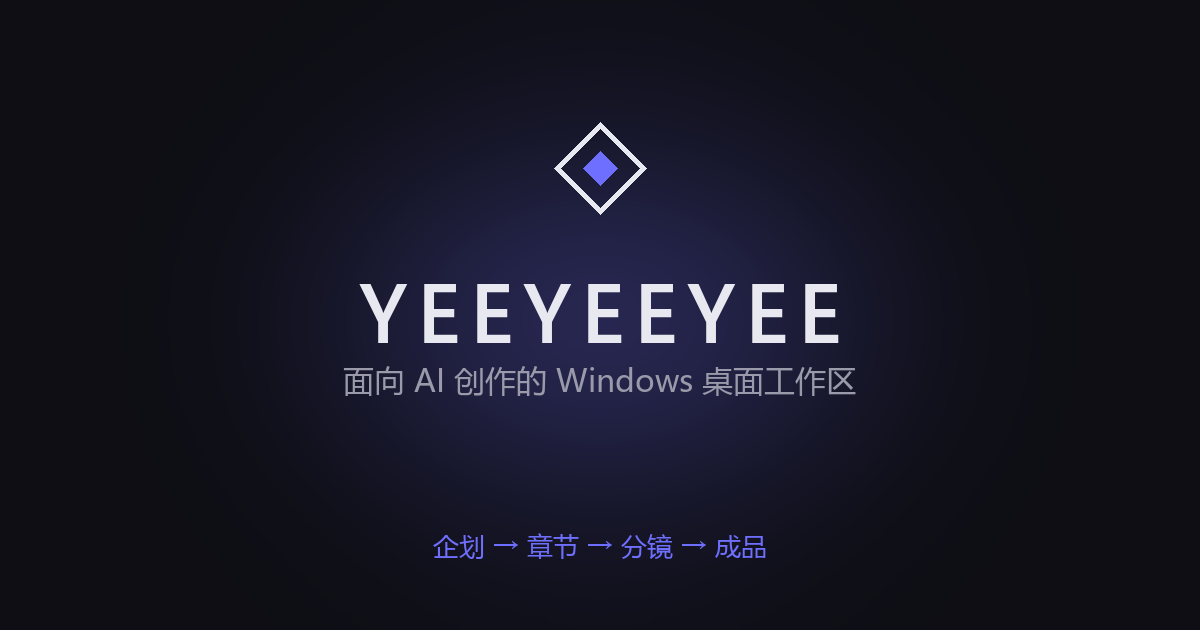
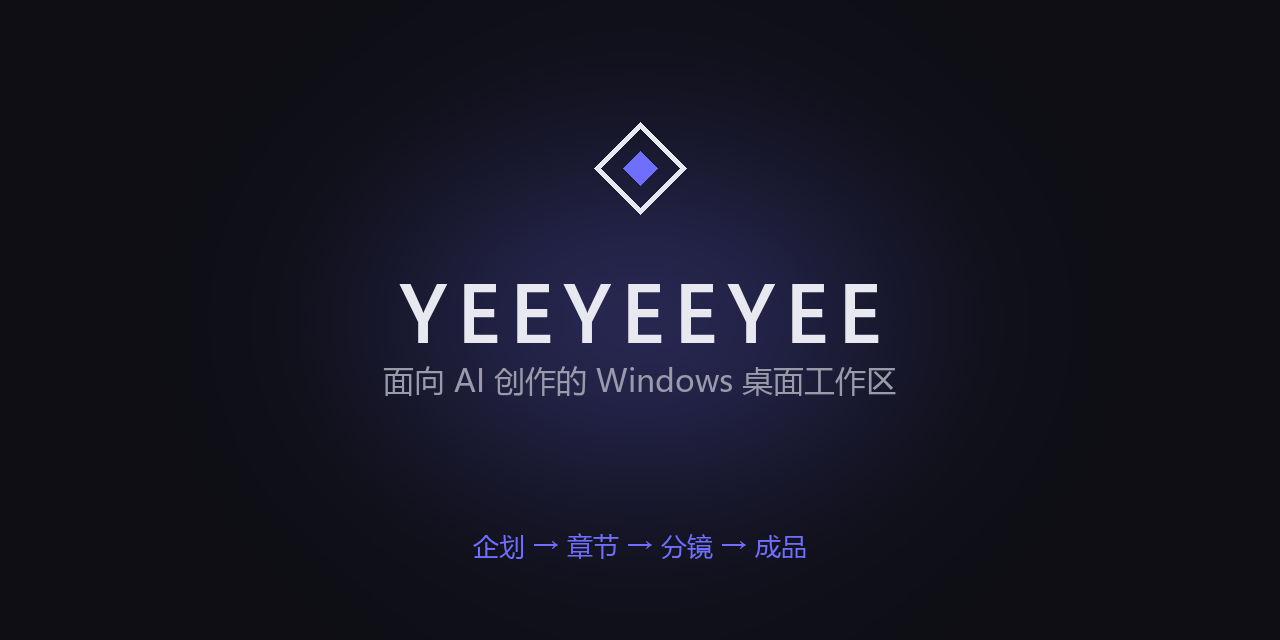
社交预览图改成 1280x640（GitHub 推荐尺寸）
原先画的 1200x630 是 Open Graph 的通用比例（1.905:1），而 GitHub 官方文档写的是「至少 640x320，最佳显示为 1280x640」，也就是 2:1，且文件需小于 1 MB。按推荐尺寸重画，避免被平台裁切；当前 1280x640、64 KB。

diff --git a/tools/make-social-preview.py b/tools/make-social-preview.py
@@ -14,7 +14,7 @@ import sys
 
 from PIL import Image, ImageDraw, ImageFilter, ImageFont
 
-WIDTH, HEIGHT = 1200, 630
+WIDTH, HEIGHT = 1280, 640
 BACKGROUND = (14, 14, 20)
 BRAND = (111, 111, 255)
 MARK = (232, 232, 240)
